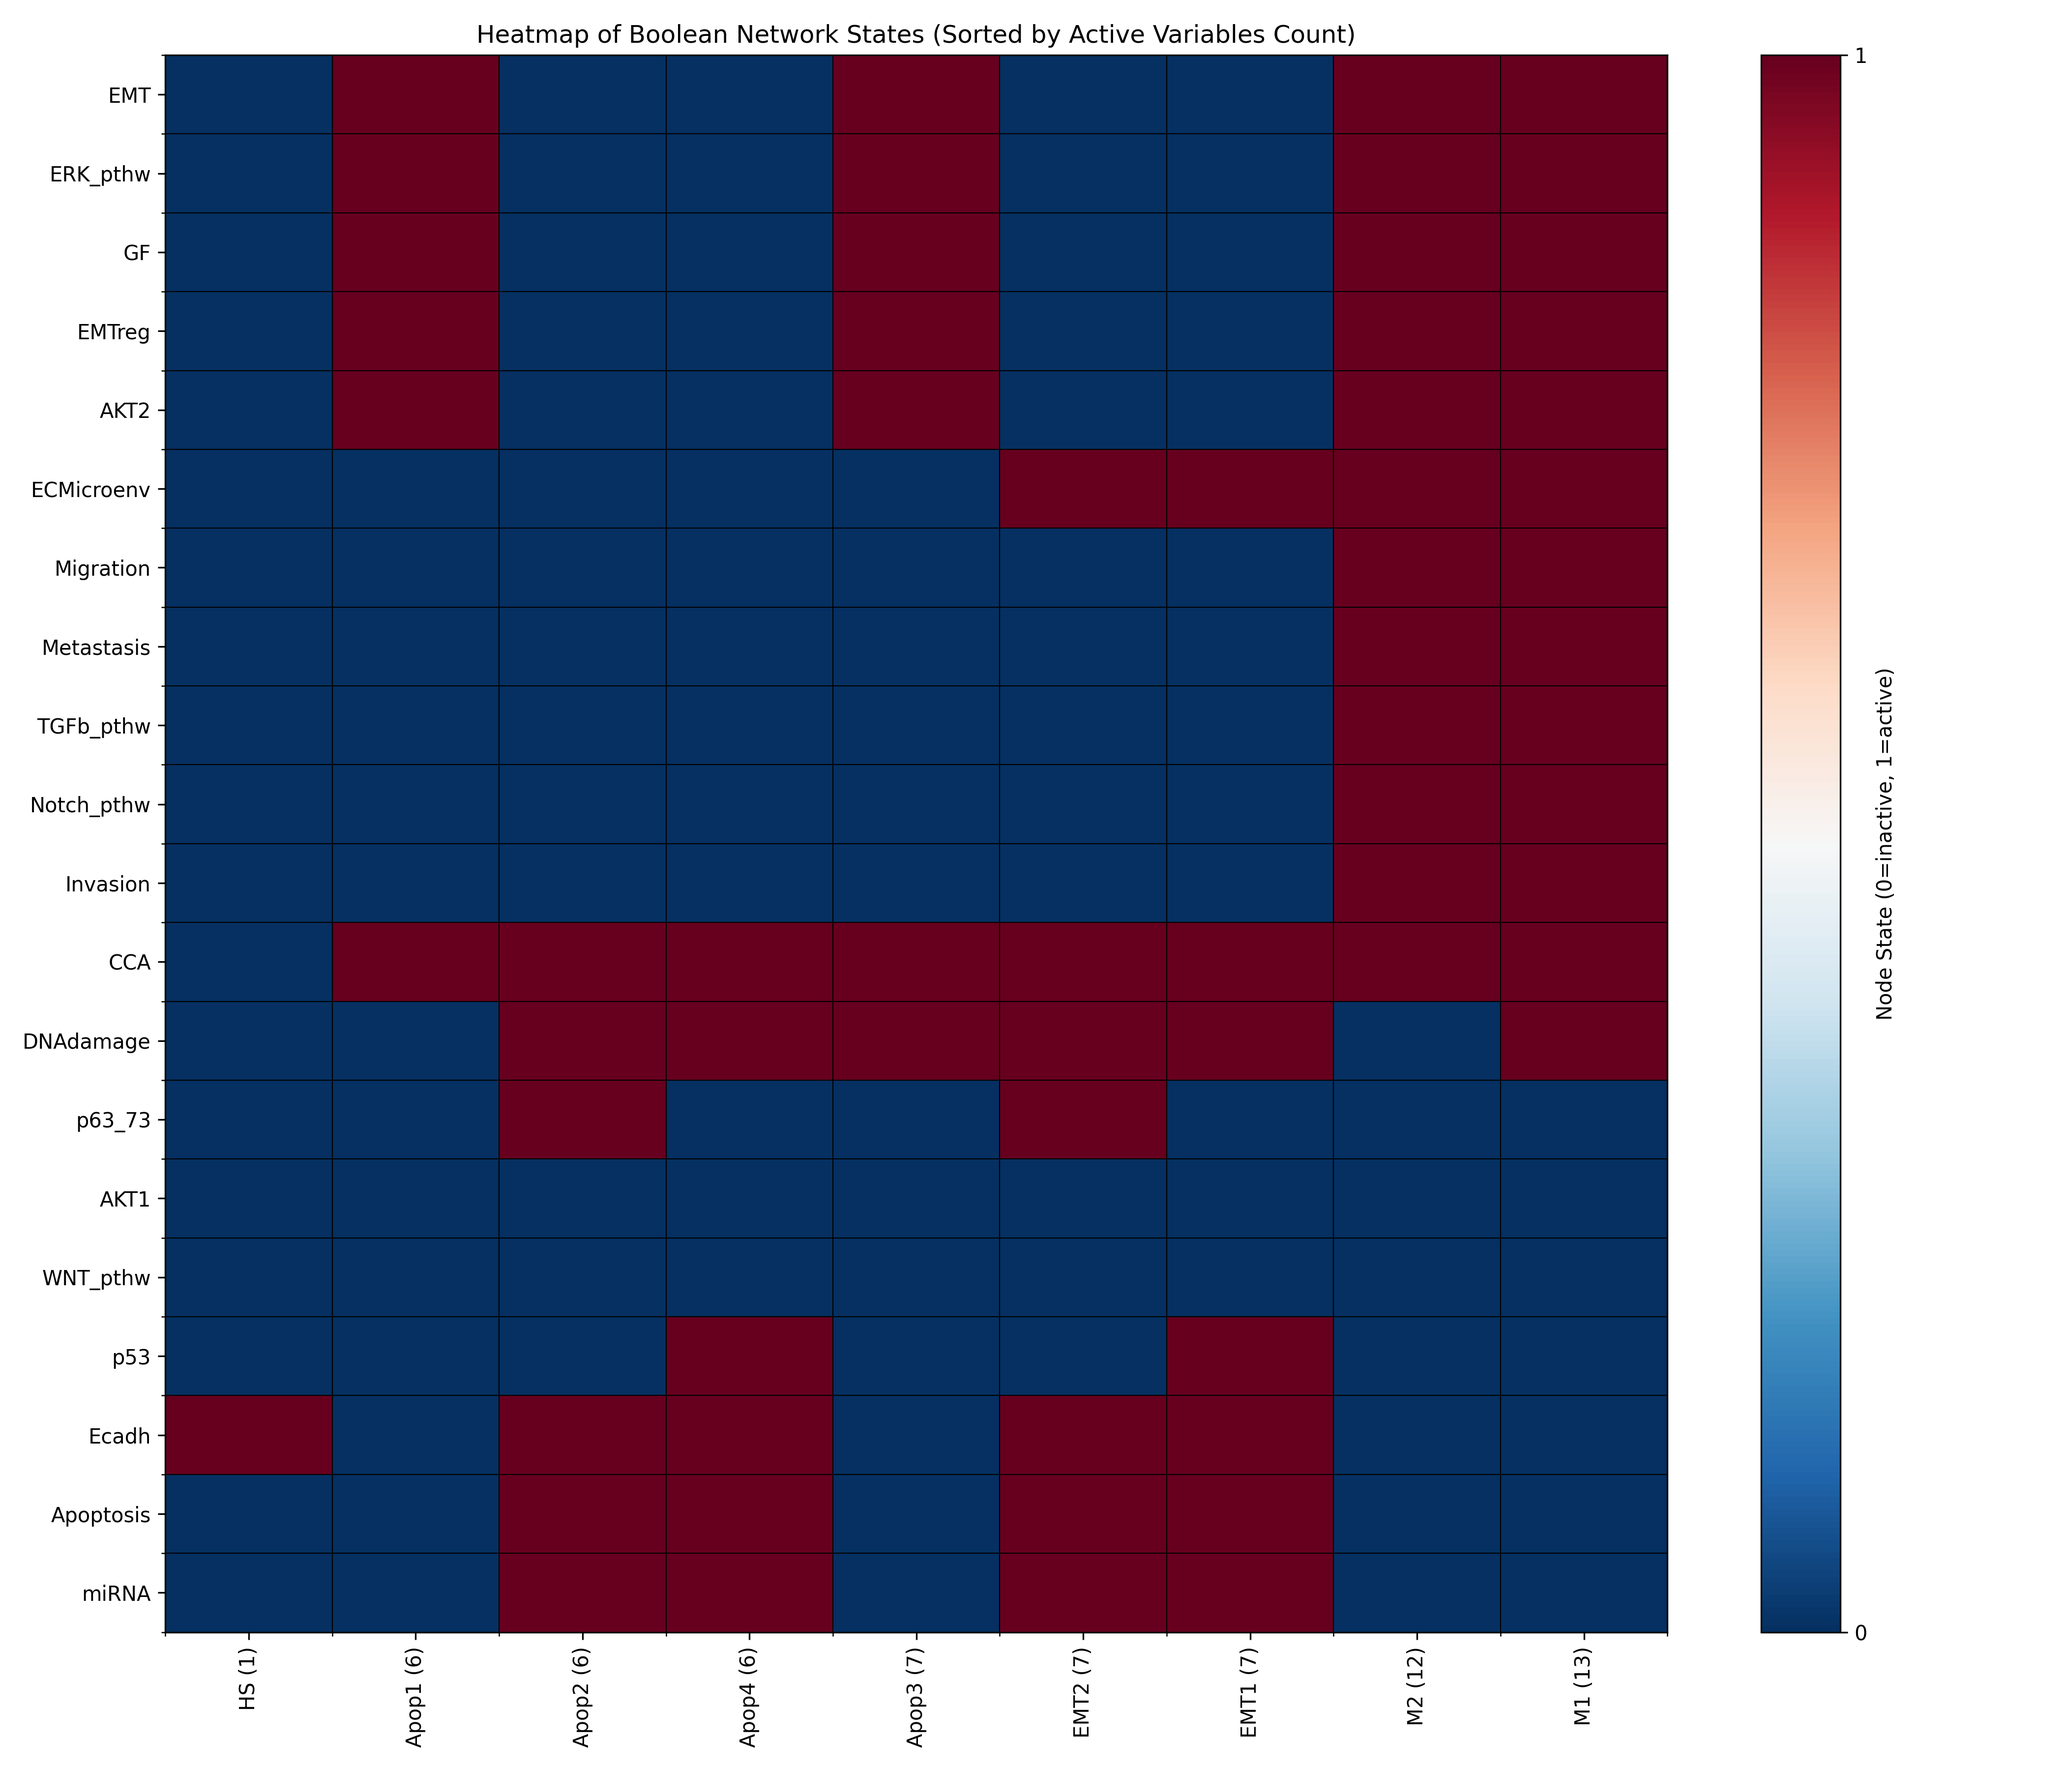
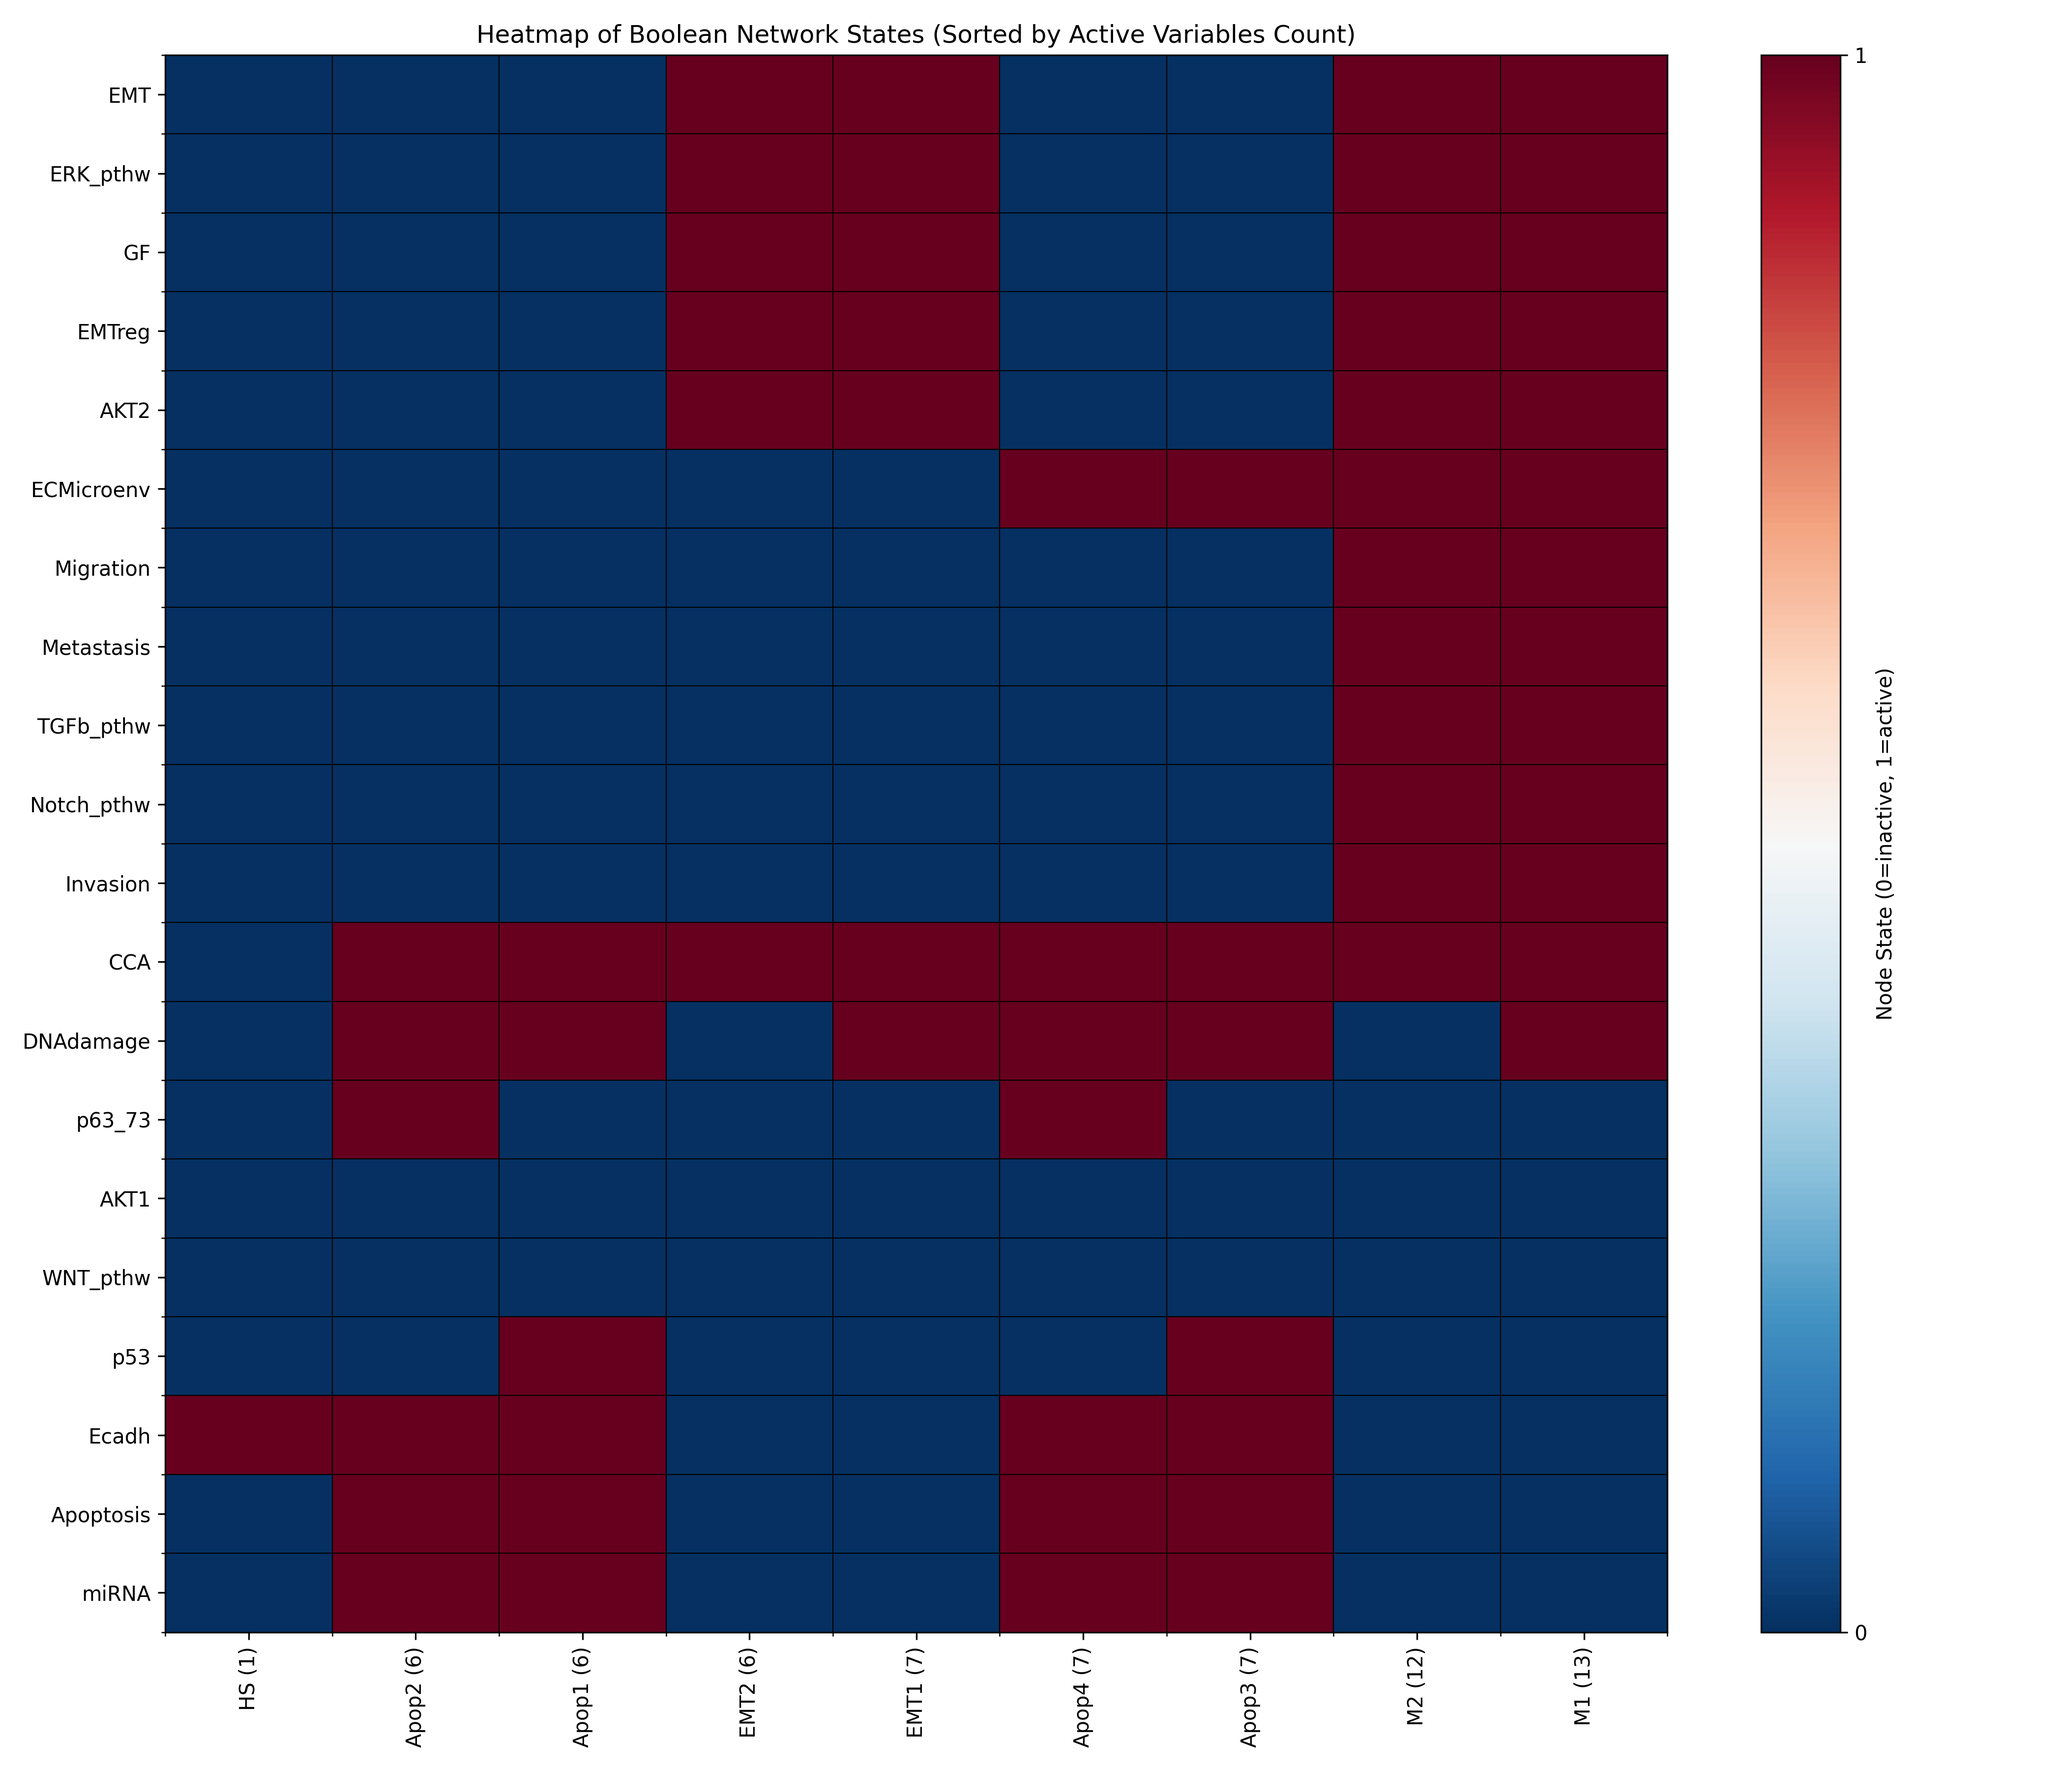
--debugging

diff --git a/utils.py b/utils.py
@@ -13,6 +13,9 @@ def plot_stable_states(df, stable_state_names, filename):
     active_gene_counts = df_sorted.sum(axis=0)
     col_order = active_gene_counts.sort_values().index
     
+    # col_order = col_order.tolist()
+    # col_order.insert(3, col_order.pop(1))
+    
     row_linkage = linkage(pdist(df_sorted), method='average')
     row_order = dendrogram(row_linkage, no_plot=True)['leaves']
     

diff --git a/modular_model.py b/modular_model.py
@@ -48,7 +48,7 @@ df = pd.DataFrame(stable)
 df_T = df.T
 print(tabulate(df_T, headers='keys', tablefmt='dpsl'))
 
-stable_state_names=['HS','Apop1','Apop2','Apop4','Apop3','EMT2','EMT1','M2','M1']
+stable_state_names=['HS','Apop2','Apop1','EMT2', 'EMT1','Apop4','Apop3','M2','M1']
 
 plot_stable_states(df_T, stable_state_names, 'reduced_model')
 

diff --git a/README.md b/README.md
@@ -1,1 +1,3 @@
 ![heatmap](plots/stable_states_heatmap.png)
+
+![reduced_heatmap](plots/reduced_model_heatmap.png)
